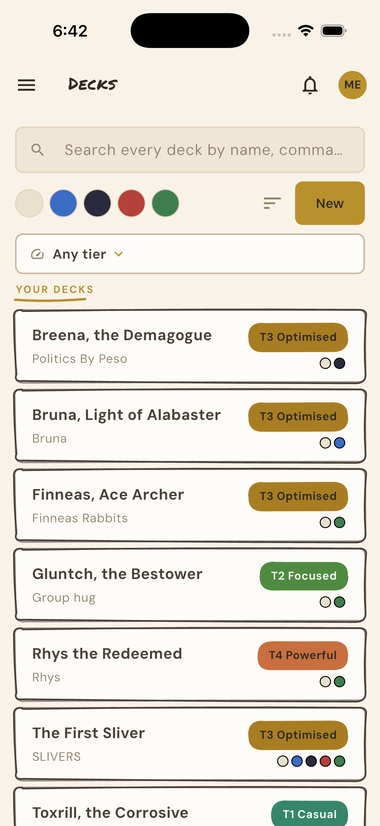
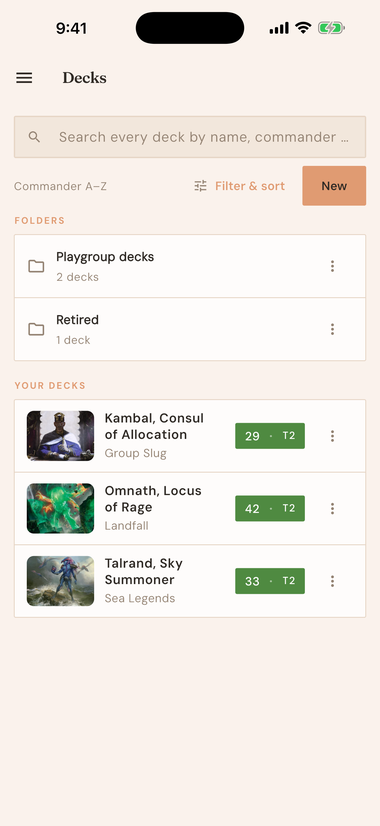
Show the app as it looks now
The product shot was the deck list from an older build: the hand-drawn theme,
the gold accent, no folders, no commander art. Anyone comparing it to the app
would think they were looking at a different product.

Replaced with the current deck list, captured on an iPhone 17 Pro Max, and the
alt text now says what is actually in the picture.

diff --git a/index.html b/index.html
@@ -87,7 +87,7 @@
       </div>
       <div class="product">
         <div class="shot">
-          <img src="images/commander-index-app.png" width="190" height="413" alt="The Commander Index deck list, showing decks with their power tiers.">
+          <img src="images/commander-index-app.png" width="190" height="413" alt="The Commander Index deck list: two folders above three decks, each with its commander art, power score and tier.">
         </div>
         <div class="pbody">
           <p class="eyebrow">Mobile app</p>
